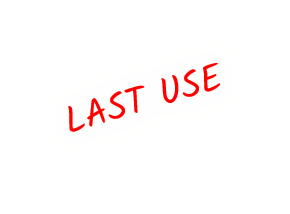
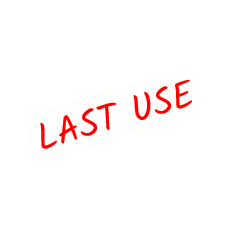
in battles always have weapons at hand

Changed region(s): [[0.1528, 0.3925, 0.5197, 0.6729], [0.5502, 0.2804, 0.8559, 0.5327]]

diff --git a/js/battle.js b/js/battle.js
@@ -253,45 +253,21 @@ export default {
       document.querySelector('#action-points')?.classList.add('low-energy');
     }
 
+    // draw up to 5 cards
+    // split deck into 2 parts, weapons and others
+    let weaponsDeck = battleDeck.filter(item => Props.getWeaponProps(item.name));
+    let itemsDeck = battleDeck.filter(item => !Props.getWeaponProps(item.name));
     this.shuffle(battleDeck);
     battlePlayContainer.innerHTML = '';
-    let maxItems = 5;
-    if (battleDeck.length < maxItems) maxItems = battleDeck.length;
-    if (maxItems > 0) {
+    let maxItems = 5 - weaponsDeck.length;
+    if (itemsDeck.length < maxItems) maxItems = itemsDeck.length;
+    if (maxItems + weaponsDeck.length > 0) {
       document.querySelector('#battle-cards .end-turn').classList.remove('is--hidden');
       for (let i = 0; i < maxItems; i += 1) {
-        const item = Items.getItemByName(battleDeck[i].name);
-        const modifyDamageMarkup =
-          battleDeck[i].modifyDamage > 0
-            ? '<span class="modify">(+' + battleDeck[i].modifyDamage + ')<span>'
-            : '';
-        const maxDurabilityChars = Props.getWeaponProps(item.name)
-          ? '◈'.repeat(Props.getWeaponProps(item.name).durability)
-          : '';
-        const durabilityMarkup = item.durability
-          ? '<span class="durability">' +
-            maxDurabilityChars.substring(0, item.durability) +
-            '<u>' +
-            maxDurabilityChars.substring(0, maxDurabilityChars.length - item.durability) +
-            '</u>' +
-            '</span>'
-          : '';
-
-        battlePlayContainer.innerHTML +=
-          '<div class="battle-card inactive" data-item="' +
-          item.name +
-          '"><div class="inner">' +
-          (item.type !== 'extra'
-            ? '<img class="item-pic" src="./img/items/' + item.name + '.PNG">'
-            : '<img class="item-pic" src="./img/weapons/' + item.name + '.png">') +
-          '<div class="attack">' +
-          (item.damage + item.modifyDamage) +
-          modifyDamageMarkup +
-          '</div><div class="shield">' +
-          item.protection +
-          '</div>' +
-          durabilityMarkup +
-          '</div></div>';
+        this.addCardToPlay(itemsDeck[i]);
+      }
+      for (let i = 0; i < weaponsDeck.length; i += 1) {
+        this.addCardToPlay(weaponsDeck[i]);
       }
       document.getElementById('battle-cards').classList.remove('is--hidden');
       for (let i = 0; i < battlePlayContainer.children.length; i += 1) {
@@ -311,6 +287,41 @@ export default {
     } else {
       this.endTurn();
     }
+  },
+
+  addCardToPlay: function (item) {
+    const modifyDamageMarkup =
+      item.modifyDamage > 0 ? '<span class="modify">(+' + item.modifyDamage + ')<span>' : '';
+    const maxDurabilityChars = Props.getWeaponProps(item.name)
+      ? '◈'.repeat(Props.getWeaponProps(item.name).durability)
+      : '';
+    const durabilityMarkup = item.durability
+      ? '<span class="durability">' +
+        maxDurabilityChars.substring(0, item.durability) +
+        '<u>' +
+        maxDurabilityChars.substring(0, maxDurabilityChars.length - item.durability) +
+        '</u>' +
+        '</span>'
+      : '';
+
+    battlePlayContainer.innerHTML +=
+      '<div class="battle-card inactive" data-item="' +
+      item.name +
+      '"><div class="inner">' +
+      (item.type !== 'extra'
+        ? '<img class="item-pic" src="./img/items/' + item.name + '.PNG">'
+        : '<img class="item-pic" src="./img/weapons/' + item.name + '.png">') +
+      (item.type === 'extra' && item.durability === 1
+        ? '<img class="last-use" src="./img/weapons/last-use.png">'
+        : '') +
+      '<div class="attack">' +
+      (item.damage + item.modifyDamage) +
+      modifyDamageMarkup +
+      '</div><div class="shield">' +
+      item.protection +
+      '</div>' +
+      durabilityMarkup +
+      '</div></div>';
   },
 
   resolveMultiAttack: function (dragEl, dragTarget) {

diff --git a/js/start.js b/js/start.js
@@ -78,11 +78,11 @@ export default {
     const inventoryPresets = Props.getInventoryPresets(Props.getGameProp('character'));
 
     // TESTING
-    /*
+
     if (Props.getGameProp('local')) {
-      Props.addWeaponToInventory('wooden-club', 1, {durability: 2});
-      Props.addWeaponToInventory('improvised-axe', 1, {durability: 2});
-    }*/
+      Props.addWeaponToInventory('wooden-club', 1, { durability: 2 });
+      Props.addWeaponToInventory('improvised-axe', 1, { durability: 2 });
+    }
 
     if (inventoryPresets && Object.keys(inventoryPresets).length) {
       for (let item in inventoryPresets) {

diff --git a/css/battle.css b/css/battle.css
@@ -270,7 +270,12 @@
   height: auto;
   margin: 30% 12%;
 }
-
+#battle-cards .battle-card img.last-use {
+  position: absolute;
+  width: 100%;
+  top: 15%;
+  left: 0%;
+}
 #battle-cards .battle-card .attack,
 #battle-cards .battle-card .shield {
   position: absolute;
